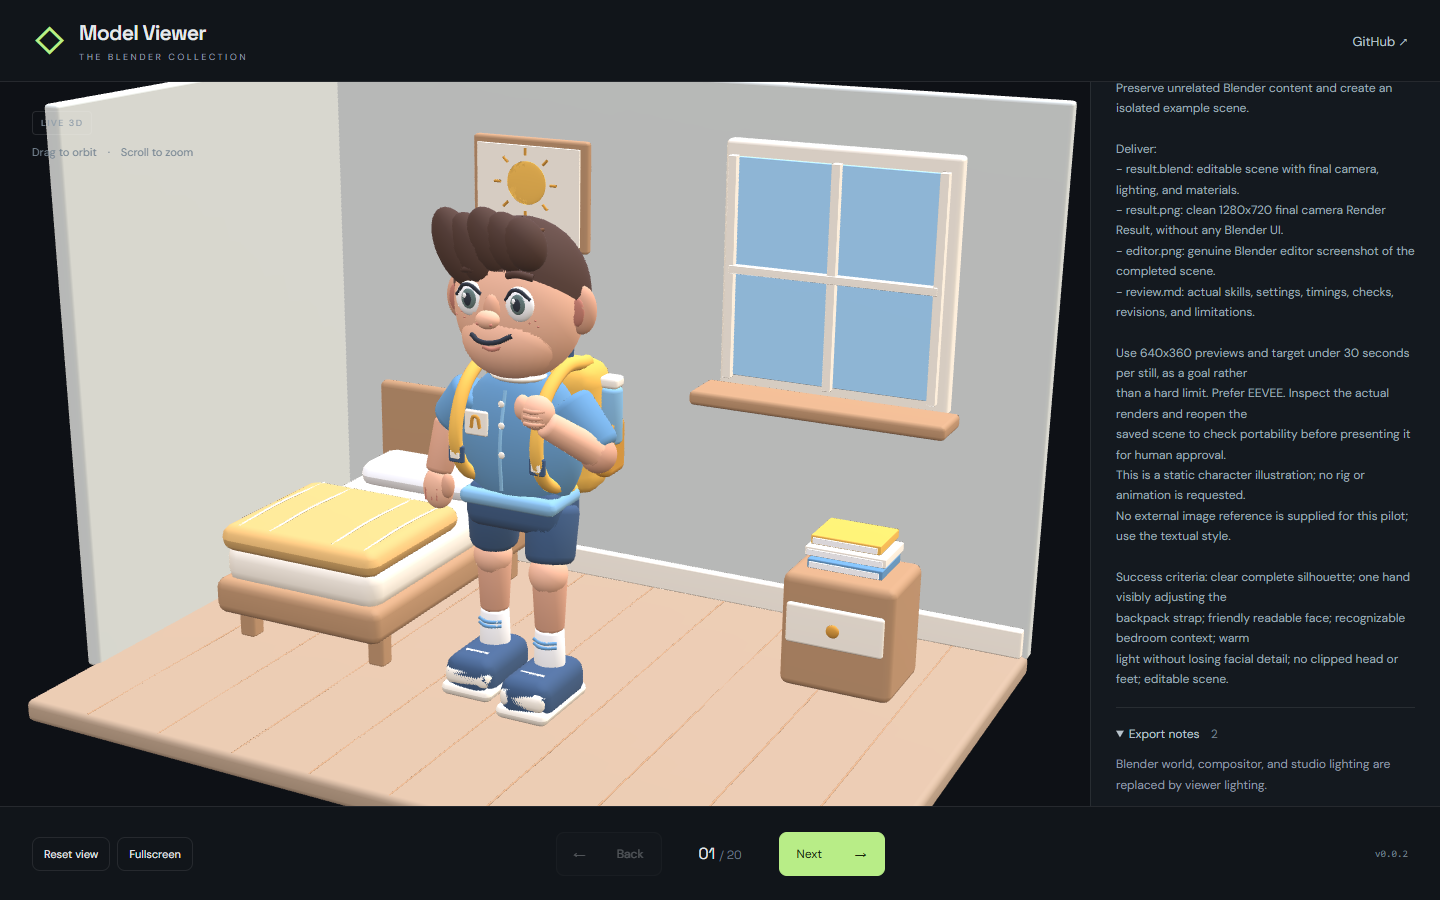
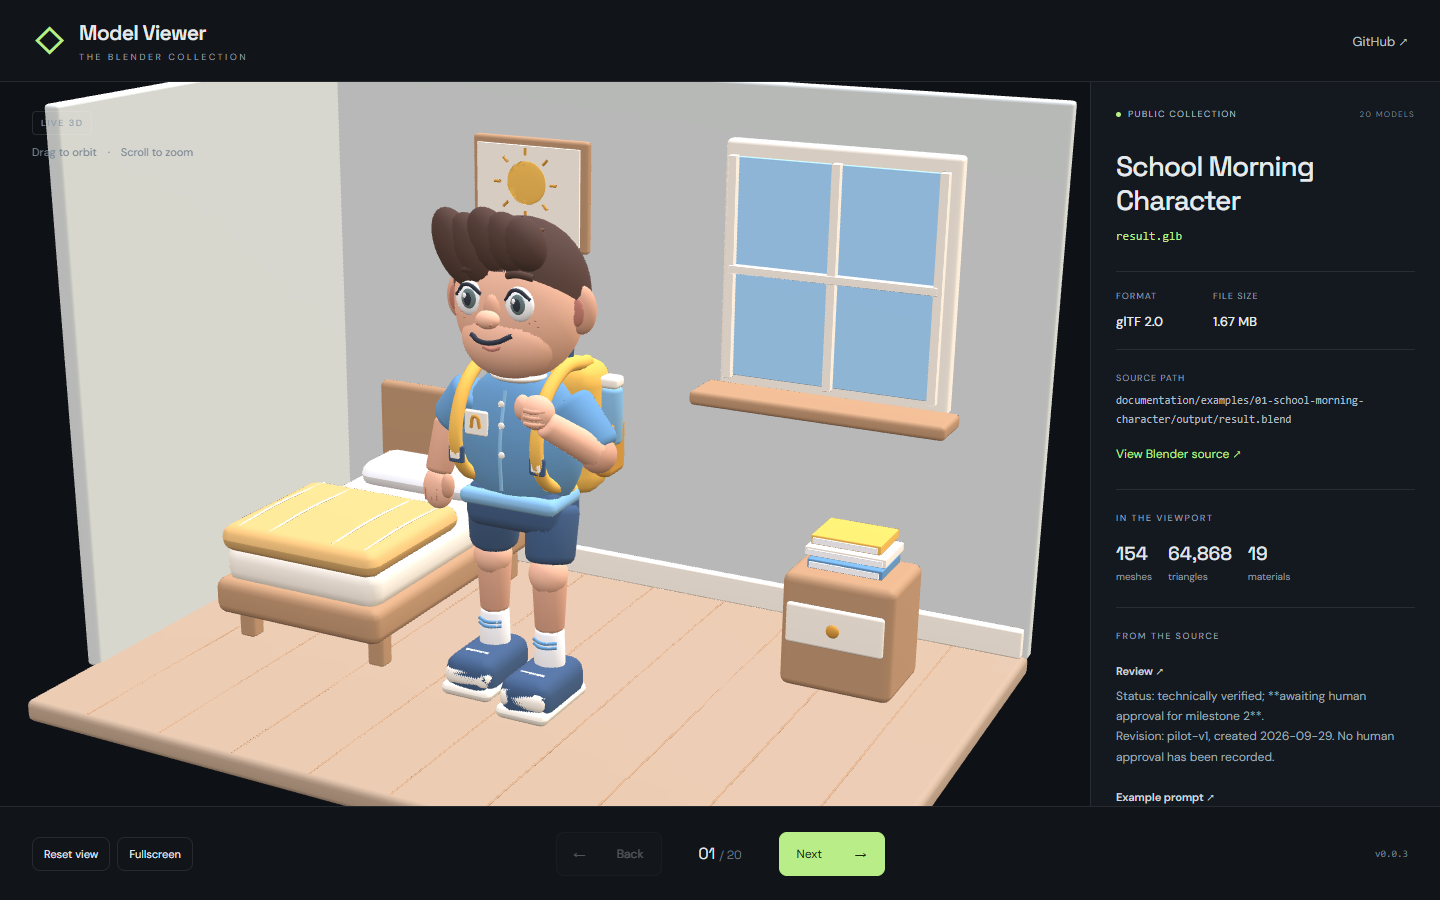
docs: record verified Pages release and complete feature tasks

Changed region(s): [[0.75, 0.1556, 0.9688, 0.9022], [0.7812, 0.0933, 0.9688, 0.1244]]

diff --git a/AGENTS_TEMPLATE_USAGE_CHECKLIST.md b/AGENTS_TEMPLATE_USAGE_CHECKLIST.md
@@ -111,7 +111,7 @@ Node/npm/Vite baseline that may be retained or replaced deliberately.
       baseline patch-only release workflow.
 - [x] Document the real release process, including versioning and deployment
       verification, in the README.
-- [ ] Confirm that the README demo URL is live before replacing its placeholder.
+- [x] Confirm that the README demo URL is live before replacing its placeholder.
 
 ## 7. Delivery gate
 
@@ -124,7 +124,7 @@ Node/npm/Vite baseline that may be retained or replaced deliberately.
       Run deployment or release verification only when authorized; otherwise
       state clearly whether it is intentionally not applicable or awaits user
       authorization.
-- [ ] Verify that README links, screenshots, commands, packages, deployment
+- [x] Verify that README links, screenshots, commands, packages, deployment
       instructions, and release instructions describe the resulting project,
       not this template.
 - [x] Verify the new repository's GitHub About description and topics match
@@ -138,4 +138,4 @@ Node/npm/Vite baseline that may be retained or replaced deliberately.
 
 ## Execution notes
 
-Created Model Viewer as a new React/Vite and Babylon.js project with a fresh template snapshot and separate GitHub origin. Node 24+, npm, public HTTP model loading, GitHub Pages, and OpenSpec were confirmed from the request and actual configuration. No environment variables or formatting script are required. Generated OpenSpec skills were retained and checked by automated tests. The user moved this chat to the project; autocomplete is a user-interface check that is not asserted by automation. Spec synchronization and archive remain a separate post-implementation action. Demo verification and final documentation are completed after the first release.
+Created Model Viewer as a new React/Vite and Babylon.js project with a fresh template snapshot and separate GitHub origin. Node 24+, npm, public HTTP model loading, GitHub Pages, and OpenSpec were confirmed from the request and actual configuration. No environment variables or formatting script are required. Generated OpenSpec skills were retained and checked by automated tests. The user moved this chat to the project; autocomplete is a user-interface check that is not asserted by automation. Spec synchronization and archive remain a separate post-implementation action. The v0.0.3 demo, release package, screenshot, and public asset loading were verified after the first release.

diff --git a/openspec/changes/add-initial-features/tasks.md b/openspec/changes/add-initial-features/tasks.md
@@ -28,7 +28,7 @@
 ## 4. Release and documentation
 
 - [x] 4.1 Implement manual patch-version release workflow with serialized version allocation and matching commit/tag/release/build; verify ordinary pushes do not release and failed checks prevent deployment.
-- [ ] 4.2 Configure Pages deployment for the exact release artifact and same-version retry/rollback; verify failure recovery does not allocate an unintended patch version.
+- [x] 4.2 Configure Pages deployment for the exact release artifact and same-version retry/rollback; verify failure recovery does not allocate an unintended patch version.
 - [x] 4.3 Add distribution checks that reject model binaries and embedded credentials from the viewer repository/build/release; verify these checks fail on a deliberately introduced prohibited fixture without retaining that fixture.
 - [x] 4.4 Write project setup, model sourcing, release, and source-maintenance documentation and customize repository metadata; verify commands and source links match actual implementation.
 
@@ -36,5 +36,5 @@
 
 - [x] 5.1 Run focused tests/build and browse every current catalog entry using only public remote assets; verify render success, metadata/path association, navigation, animation where applicable, and export warning visibility.
 - [x] 5.2 Verify source catalog changes become visible on viewer reload without rebuilding the app, using controlled HTTP test responses; verify immutable asset URLs within a session.
-- [ ] 5.3 Run the first manual release and verify version agreement across tag, release, and live Pages app; confirm network requests retrieve models from the public source and shipped artifacts contain no models.
-- [ ] 5.4 Link the verified Pages URL in README and capture a current representative screenshot; verify the link, document remaining export limitations, and preserve the separate source publication SHA in delivery notes.
+- [x] 5.3 Run the first manual release and verify version agreement across tag, release, and live Pages app; confirm network requests retrieve models from the public source and shipped artifacts contain no models.
+- [x] 5.4 Link the verified Pages URL in README and capture a current representative screenshot; verify the link, document remaining export limitations, and preserve the separate source publication SHA in delivery notes.

diff --git a/model-viewer/documentation/verification.md b/model-viewer/documentation/verification.md
@@ -10,4 +10,12 @@ All exports were visually reviewed in Chrome. The source camera preserves subjec
 
 Automated checks cover revision pinning, malformed catalogs, path validation, duplicate IDs, absent metadata, network failures, source refresh without rebuilding, stale selection protection, prohibited distribution fixtures, and release allocation/retry/rollback against a temporary Git remote. Browser acceptance loads public GLBs, checks metadata association and endpoint navigation, verifies animation movement and playback controls, exercises failure/retry and rapid keyboard navigation, and checks a narrow viewport.
 
-The application has no model files or copied catalog. The production build passes the distribution guard. GitHub Pages and release artifact verification are recorded below after deployment.
+The application has no model files or copied catalog. The production build passes the distribution guard.
+
+## Published application
+
+[Release v0.0.3](https://github.com/SamuelAsherRivello/ai-skills-blender-model-viewer/releases/tag/v0.0.3) was produced by the successful [manual release run](https://github.com/SamuelAsherRivello/ai-skills-blender-model-viewer/actions/runs/36601318273). The tag, release package, live `version.txt`, and rendered app all report 0.0.3. The ordinary-push Checks workflow also passed and did not deploy.
+
[1 lines of base64/hex data omitted]
+
+Retry and rollback version allocation were tested against a disposable Git remote; no failed live deployment was deliberately induced. The published screenshot is from the live release. The large forest export is 78.40 MiB; it retains 1,240,003 rendered triangles and loads from the source repository, not the app release.

diff --git a/README.md b/README.md
@@ -8,7 +8,7 @@ A full-browser 3D gallery for the public [AI Skills for Blender collection](http
 
 ## Live Demo
 
-The first Pages deployment is being verified. The stable demo link will appear here after verification.
+[Open Model Viewer](https://samuelasherrivello.github.io/ai-skills-blender-model-viewer/) · [Latest release](https://github.com/SamuelAsherRivello/ai-skills-blender-model-viewer/releases/latest)
 
 ## Getting Started
 
